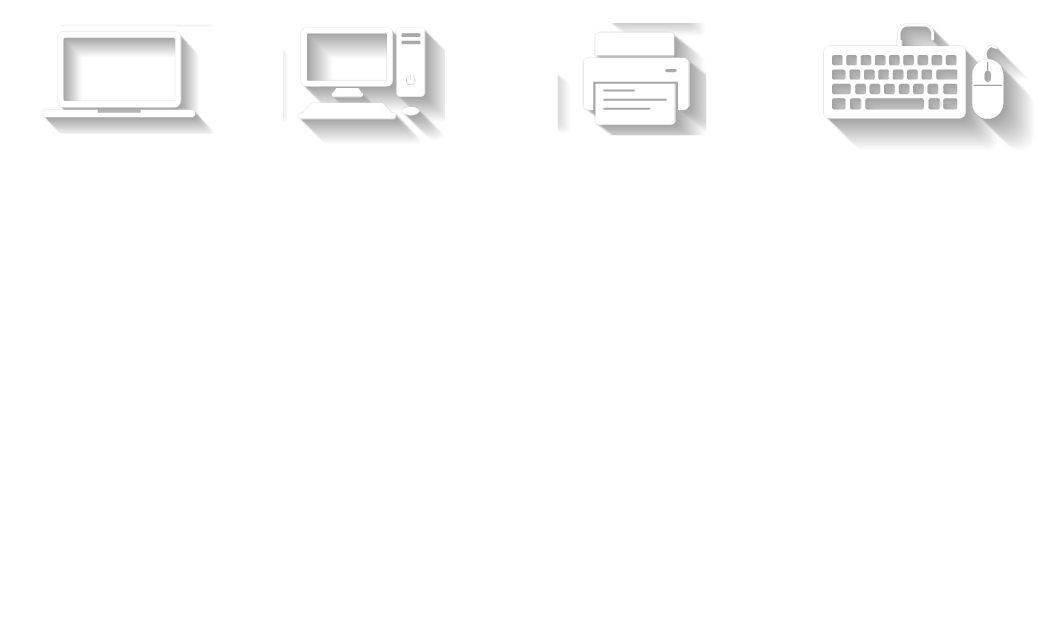
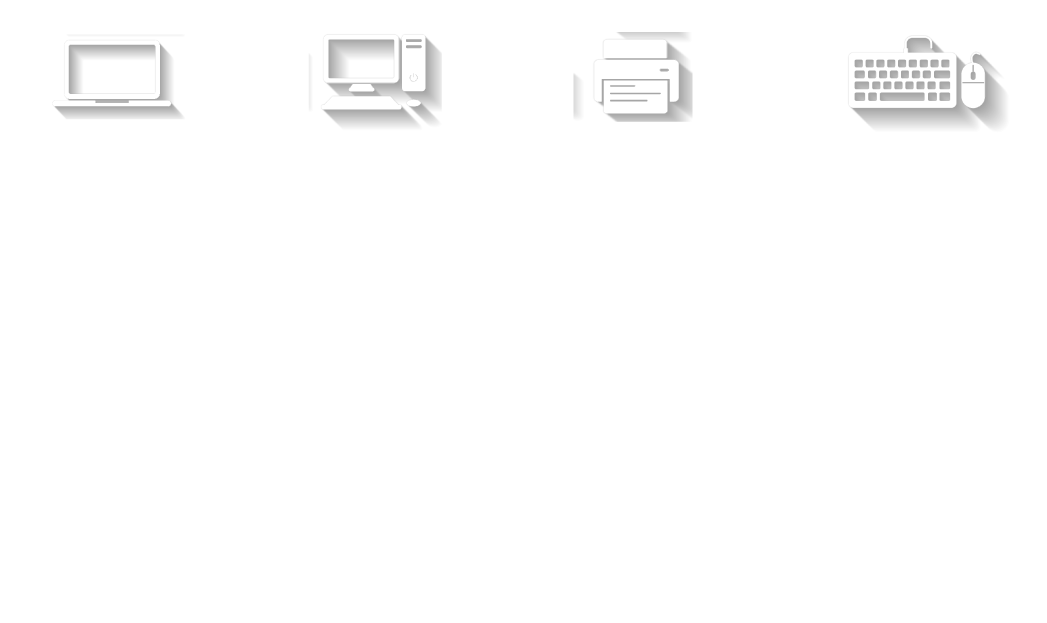
d
d

diff --git a/js/app.js b/js/app.js
@@ -72,7 +72,7 @@ track.addEventListener('transitionend', () => {
 
 /* ===== AUTOPLAY INFINITO ===== */
 function startAutoplay() {
-  autoplayInterval = setInterval(moveNext, 3500);
+  // autoplayInterval = setInterval(moveNext, 3500);
 }
 
 function stopAutoplay() {
